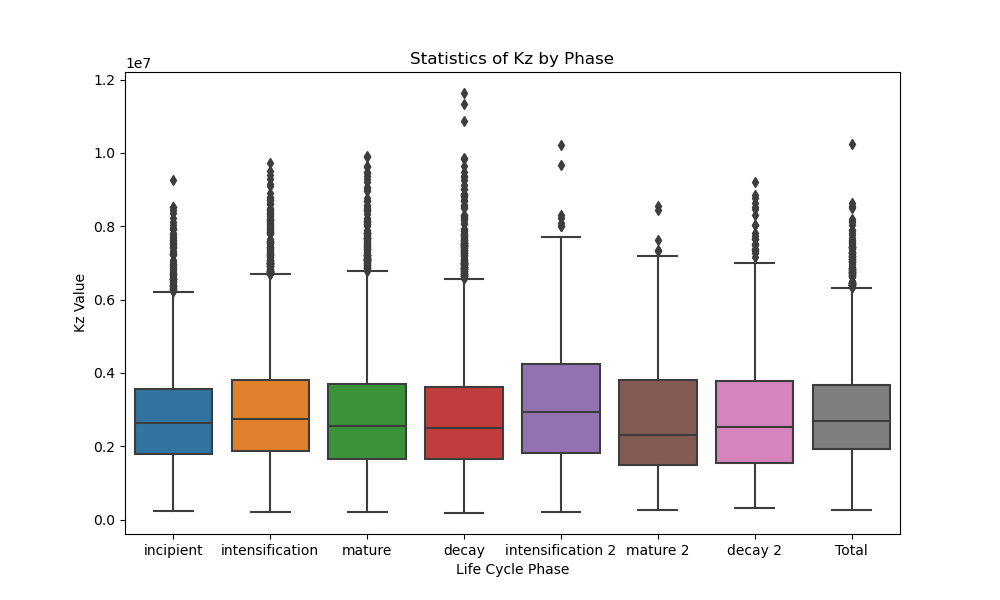
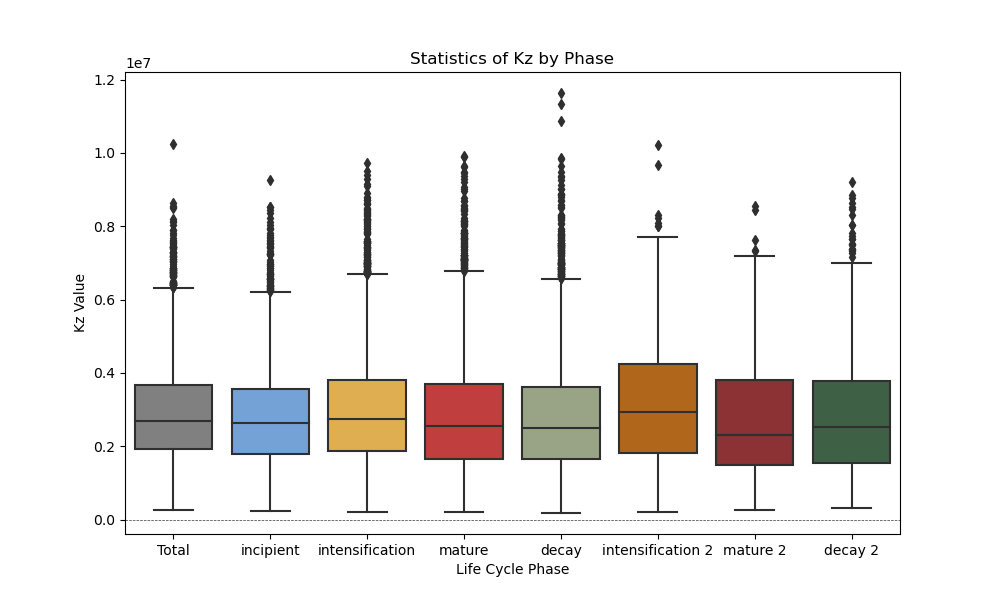
updated colors

diff --git a/src_energetic_statistics/boxplots.py b/src_energetic_statistics/boxplots.py
@@ -6,7 +6,7 @@
 #    By: daniloceano <danilo.oceano@gmail.com>      +#+  +:+       +#+         #
 #                                                 +#+#+#+#+#+   +#+            #
 #    Created: 2024/03/02 17:31:28 by daniloceano       #+#    #+#              #
-#    Updated: 2024/03/02 18:11:23 by daniloceano      ###   ########.fr        #
+#    Updated: 2024/03/02 18:32:27 by daniloceano      ###   ########.fr        #
 #                                                                              #
 # **************************************************************************** #
 
@@ -15,6 +15,17 @@ import pandas as pd
 import matplotlib.pyplot as plt
 import seaborn as sns
 from tqdm import tqdm
+
+COLOR_PHASES = {
+    'Total': 'grey',
+    'incipient': '#65a1e6',
+    'intensification': '#f7b538',
+    'mature': '#d62828',
+    'decay': '#9aa981',
+    'intensification 2': '#ca6702',
+    'mature 2': '#9b2226',
+    'decay 2': '#386641',
+    }
 
 def read_life_cycles(base_path):
     """
@@ -55,8 +66,10 @@ def plot_box_plots_by_phase(systems_energetics, output_directory):
     
     for term in terms:
         plt.figure(figsize=(10, 6))
-        sns.boxplot(x='phase', y=term, data=all_data, order=['incipient', 'intensification', 'mature', 'decay',
-                                                             'intensification 2', 'mature 2', 'decay 2', 'Total'])
+        sns.boxplot(x='phase', y=term, data=all_data, palette=COLOR_PHASES.values(),
+                     order=['Total', 'incipient', 'intensification', 'mature', 'decay',
+                                                             'intensification 2', 'mature 2', 'decay 2'])
+        plt.axhline(y=0, color='k', linestyle='--', alpha=0.8, linewidth=0.5)
         plt.title(f'Statistics of {term} by Phase')
         plt.ylabel(f'{term} Value')
         plt.xlabel('Life Cycle Phase')
